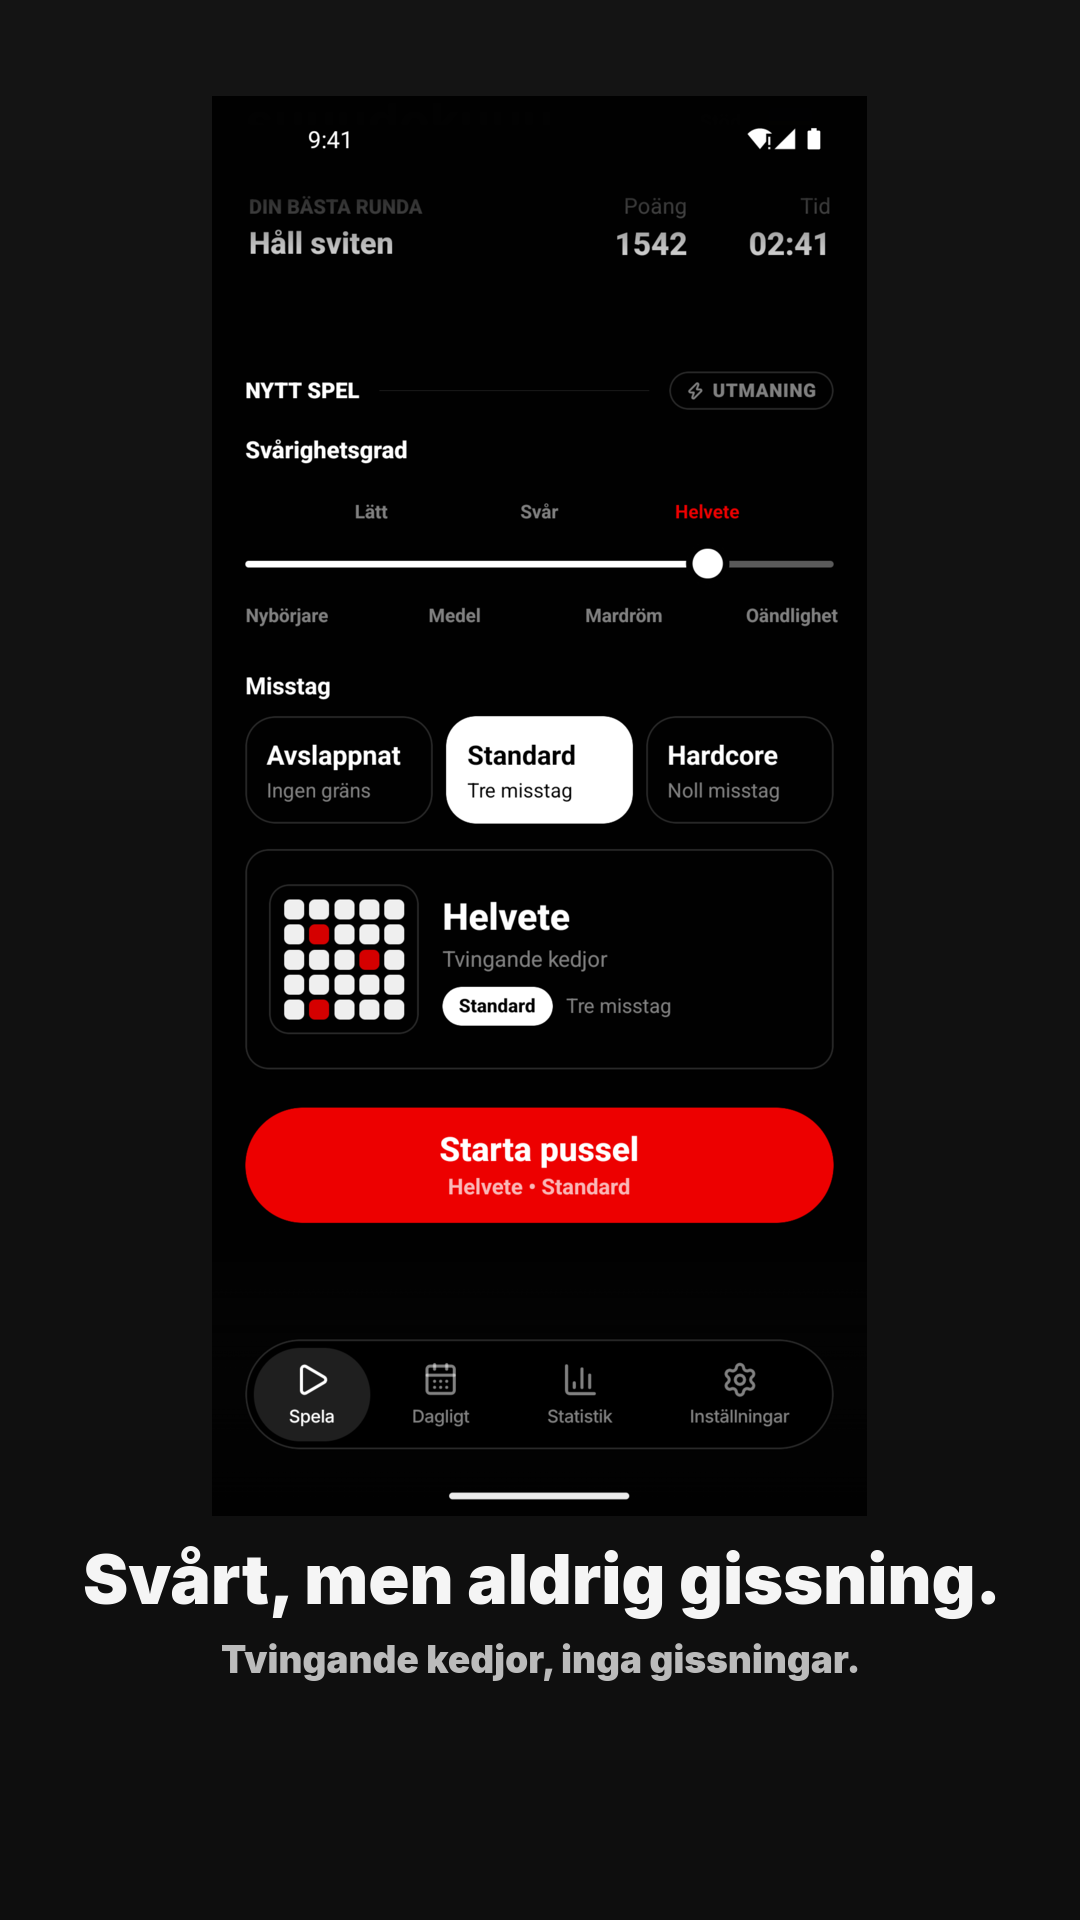
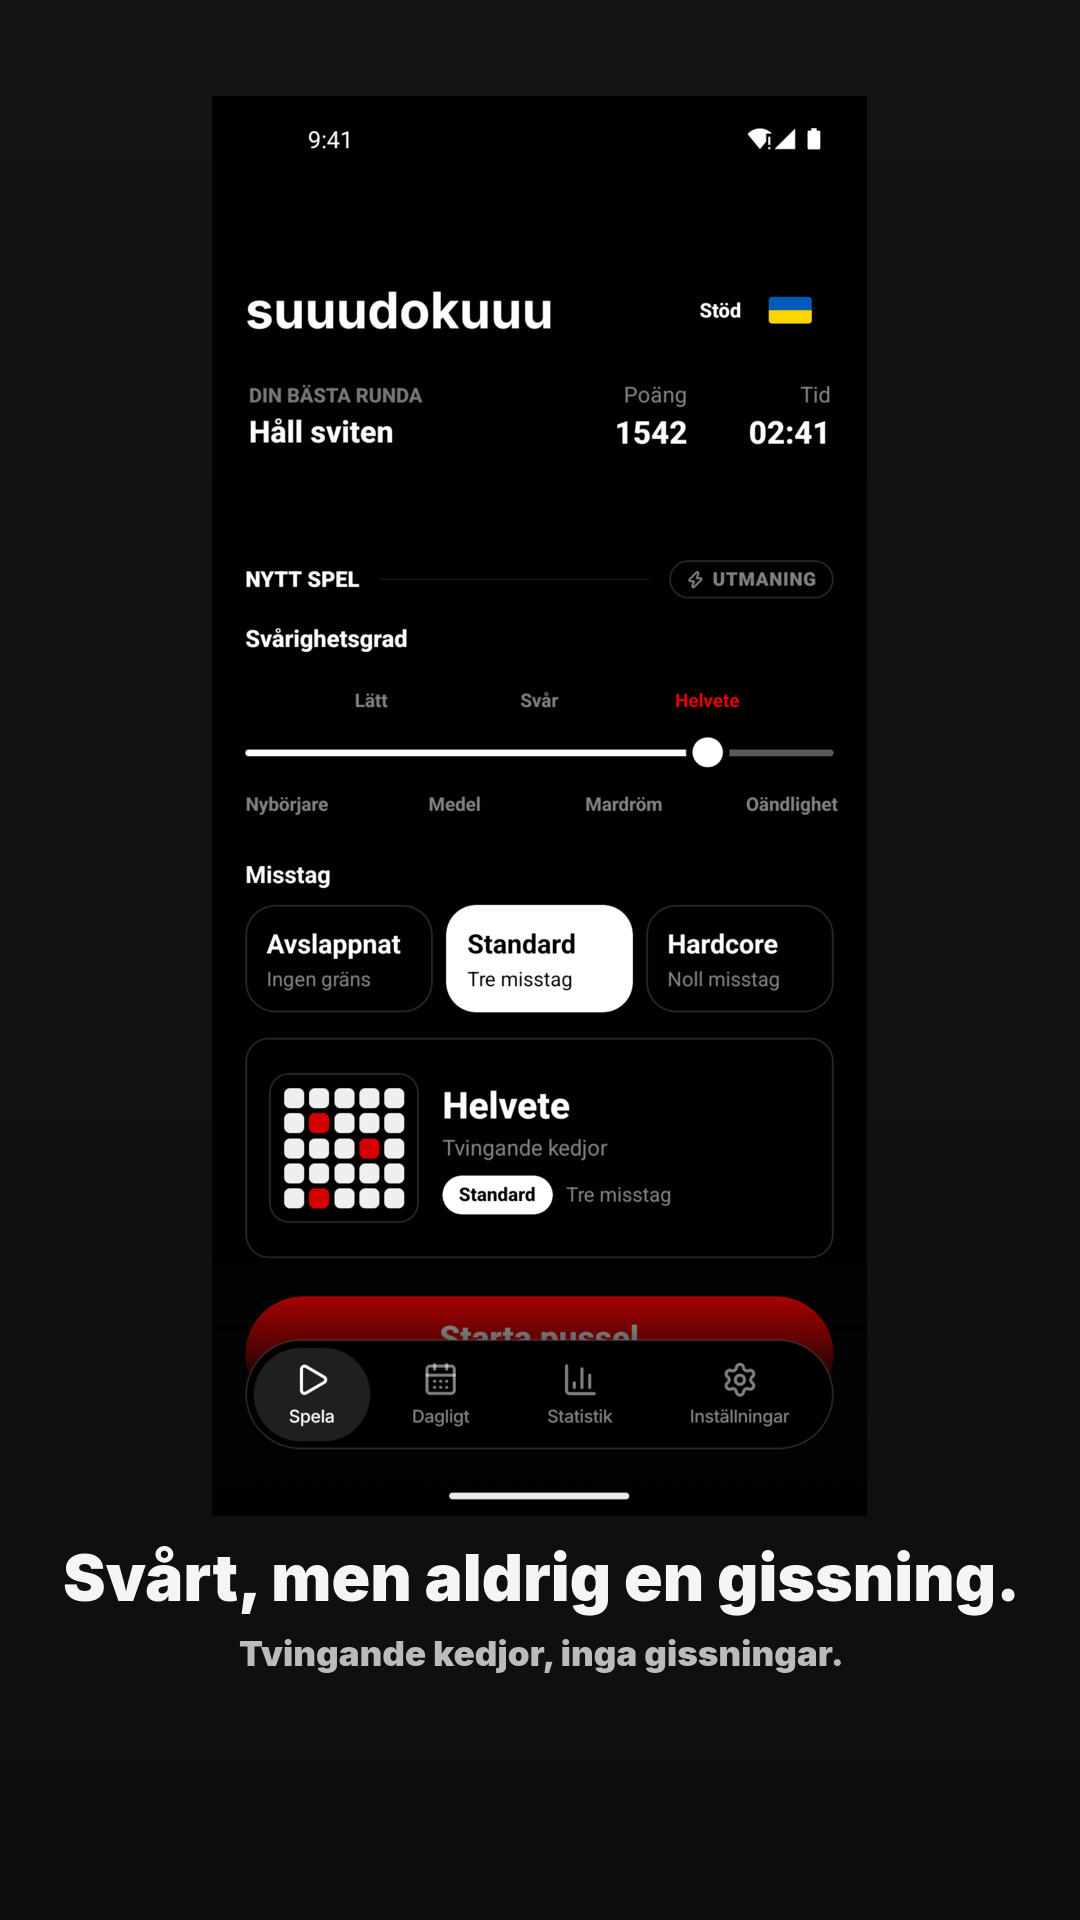
fix(app): correct the Swedish Hell caption and test each CPP Open action
Use "aldrig en gissning" in the Swedish Hell headline and recompose its
Play screenshot. Add a post-approval check that each live custom product
page's Open action reaches Home.

diff --git a/docs/store-custom-pages.md b/docs/store-custom-pages.md
@@ -22,7 +22,7 @@ Keep the existing app name, icon, default Play title, and other listing sections
 
 ## Verification and measurement
 
-Before store submission, test the **production** iOS build on iOS 18+ by opening `suuudokuuu://` from outside the app for each proposed CPP and recording that Home visibly offers difficulty selection, Relaxed mistakes, and Start puzzle. Repeat on a production Android build to confirm the same Home route if a campaign separately links into the app. Test fresh install and a saved in-progress run; confirm no CPP silently selects a tier or replaces that run. Open each published Play URL to confirm its `listing` parameter shows the matching listing, and use each live Apple CPP URL to confirm its matching screenshot order and promotional text. The source audit above establishes route intent, **not native runtime proof**; this proof remains a release gate. Apple's generated CPP URLs and live keyword eligibility also require store access; do not invent page IDs or claim a live configuration.
+Before store submission, test the **production** iOS build on iOS 18+ by opening `suuudokuuu://` from outside the app for each proposed CPP and recording that Home visibly offers difficulty selection, Relaxed mistakes, and Start puzzle. Repeat on a production Android build to confirm the same Home route if a campaign separately links into the app. Test fresh install and a saved in-progress run; confirm no CPP silently selects a tier or replaces that run. The scheme launch is a route check only: after Apple approves each CPP's deep link, tap Open on that live CPP URL with the app installed and confirm it lands on the same Home route. Open each published Play URL to confirm its `listing` parameter shows the matching listing, and use each live Apple CPP URL to confirm its matching screenshot order and promotional text. The source audit above establishes route intent, **not native runtime proof**; this proof remains a release gate. Apple's generated CPP URLs and live keyword eligibility also require store access; do not invent page IDs or claim a live configuration.
 
 For each internal page name, record publication date, selected keywords, CPP URL or Play `listing` value, and screenshot order. Compare the page with the default listing over the same storefront, device type, and date window. On Apple, use App Analytics Acquisition for page impressions → downloads/redownloads → conversion rate, then retention where available. On Play, record store listing visits and unique Install clicks separately from CTR, which counts visitors who click Install, Open, or Pre-register. Track acquired and retained installers separately where available, because Play's current listing report emphasizes clicks. Segment organic keyword traffic from visits to a shared URL; a `listing` value is a page identifier, not proof of campaign attribution. Keep the comparison descriptive until traffic and attribution are sufficient; no A/B test or paid campaign is part of this issue. [Apple analytics](https://developer.apple.com/app-store/custom-product-pages/) · [Play listing metrics](https://support.google.com/googleplay/android-developer/answer/9859173).
 
